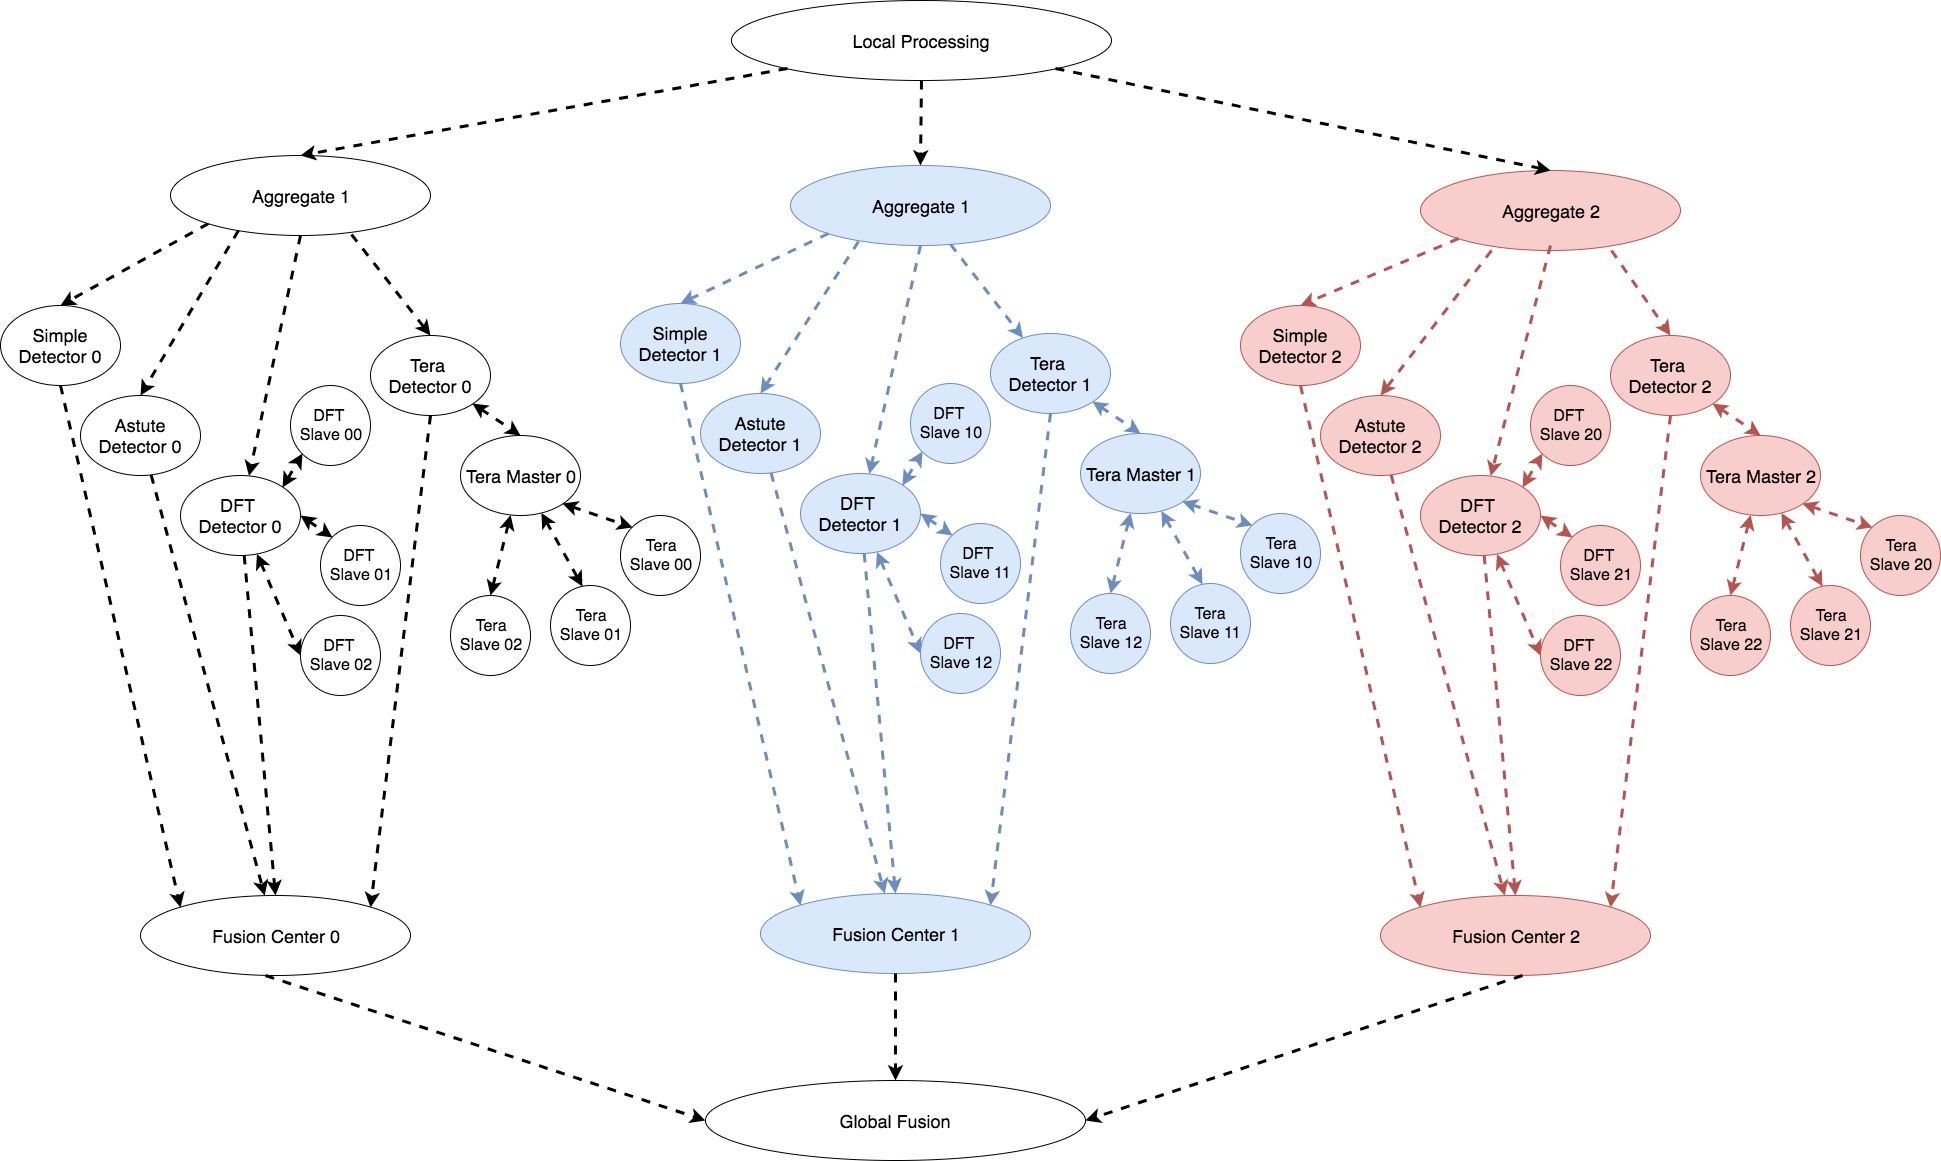
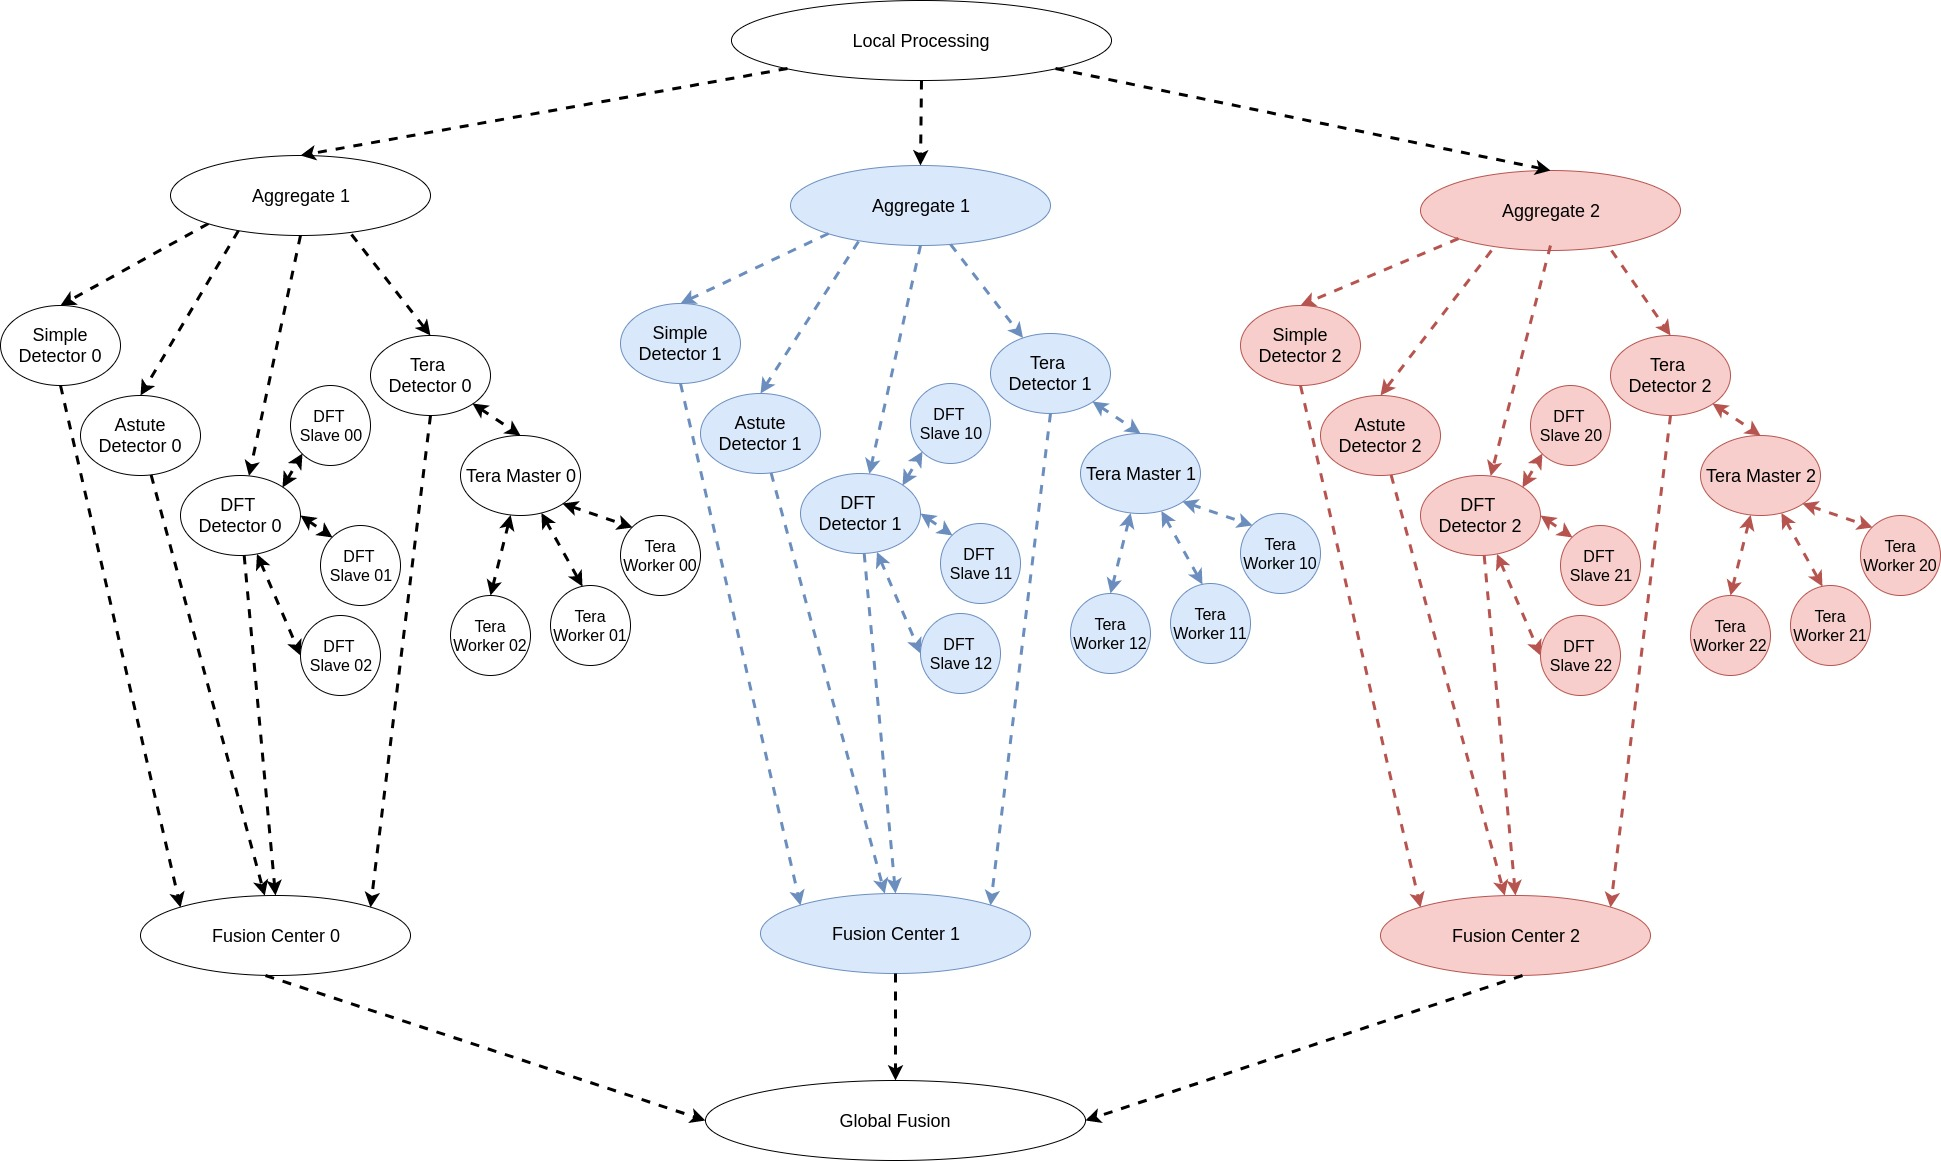
Updated README and Figure files

diff --git a/README.md b/README.md
@@ -70,7 +70,7 @@ The folder structure is:
 
 ## `sample_input` 
 This folder is required according to the Jupiter guidelines as well as for testing.
-Once can leave it as an empty directory.
+One can leave it as an empty directory.
 
 ## `config.json`
 According to Jupiter guideline, there MUST be a config.json file with an
@@ -85,7 +85,7 @@ In this, each entry is represented as follows:
 
 `<task_file>` is the name of the file to be run internally
 
-`<DAG_flag`> represents whether the task is part of the DAG. If yes, set it to be `True` otherwise `False`.
+`<DAG_flag`> represents whether the task is part of the DAG. If yes, set it to be `True` otherwise set it to be `False`.
 
 `<Arguments>` represents the arguments for the tasks that are not part of the DAG portion of the task-graph.
 
@@ -128,14 +128,6 @@ scheduler's random mapping.
 This file includes random mapping for the tasks that has no parent.
 For example, the given `input_node.txt` file randomly selects node4 for the `localpro` task.
 
-
-
-This file is required by the WAVE scheduler. This basically initiates the WAVE
-scheduler's random mapping. 
-This file includes random mapping for the tasks that has no parent.
-For example, the given `input_node.txt` file randomly selects node4 for the `localpro` task.
-
-
 ## `script`
 This folder contains all the executables related to the task graph.
 
@@ -164,9 +156,9 @@ that coordinates the coded/uncoded terasort analysis of the data among the Teras
 This folder contains all the script required to run Terasort worker tasks.
  
 ### `teradetector<SPLIT_ID>.py`
-As the terasort master and slave tasknodes are not directly part of the DAG,
-we have added this script to connect them to the DAG portion of the graph.
-This script dispatched the input data to the teramaster<SPLIT_ID> for processing
+As the terasort master and worker task nodes are not directly part of the DAG,
+we have added this extra task to connect them to the DAG portion of the graph.
+This script dispatches the input data to the teramaster<SPLIT_ID> for processing
 and collects the output of the analysis and pass it to the Fusion Center.
  
 ### `fusion_center<SPLIT_ID>.py`
